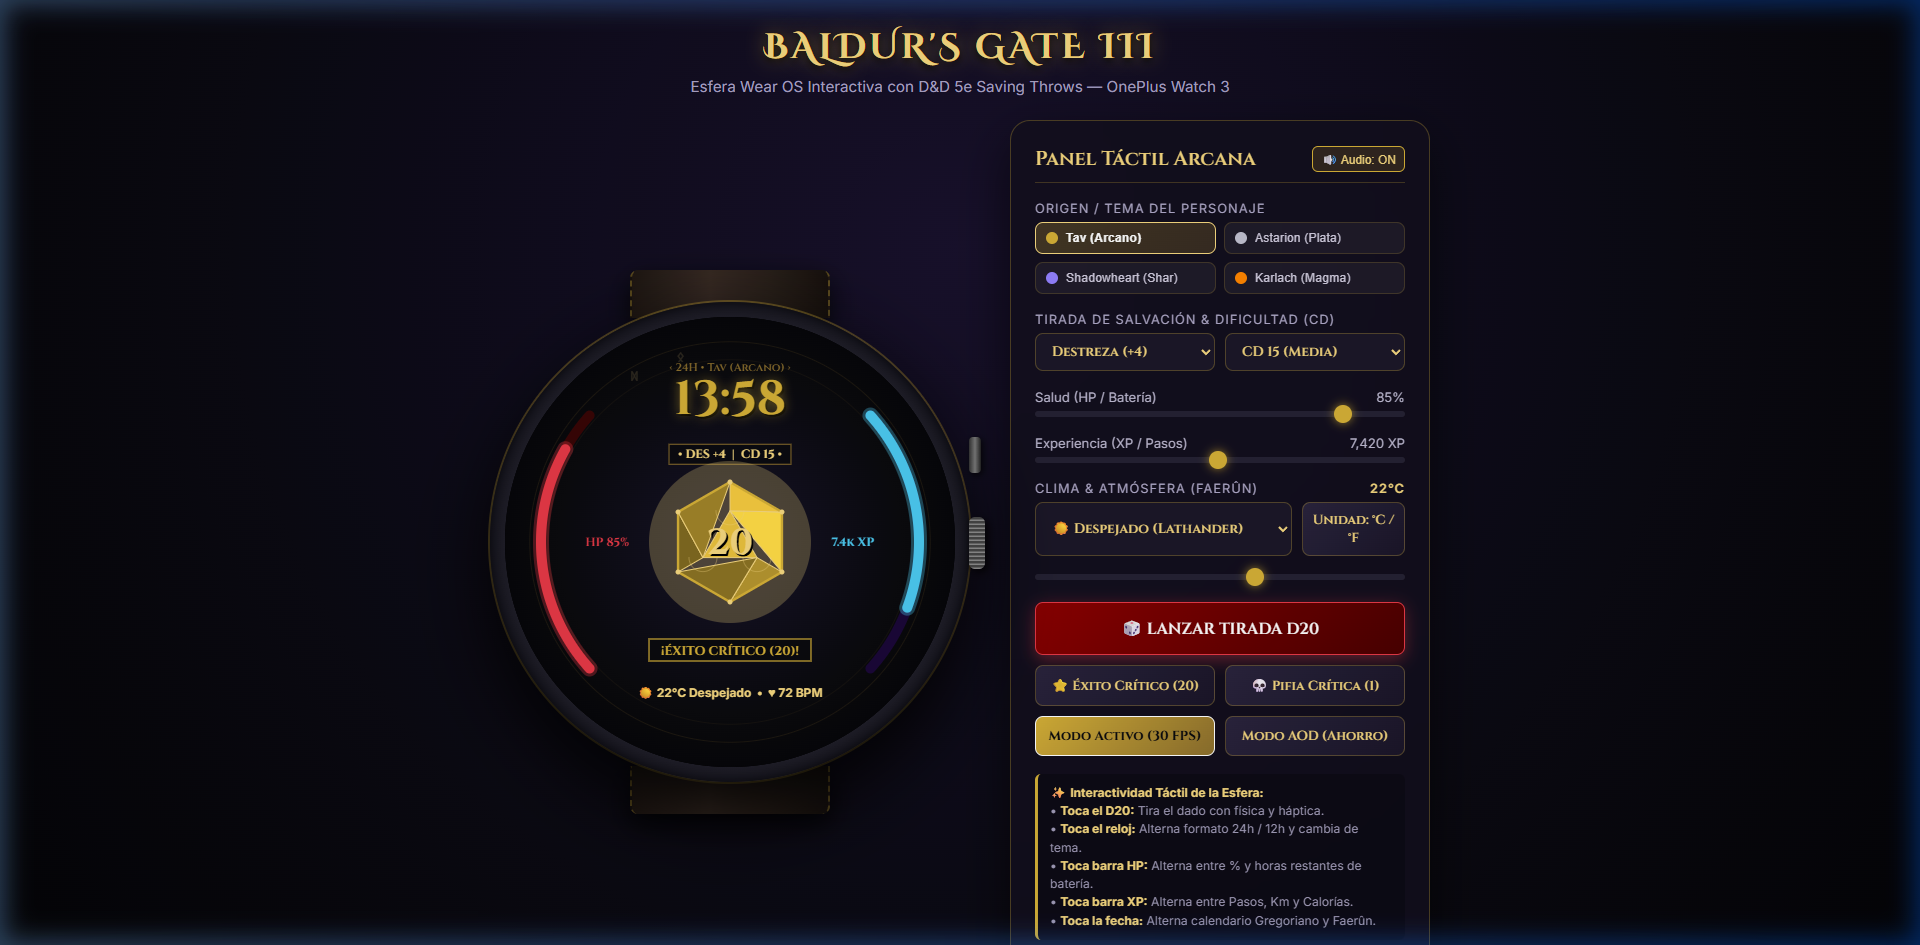
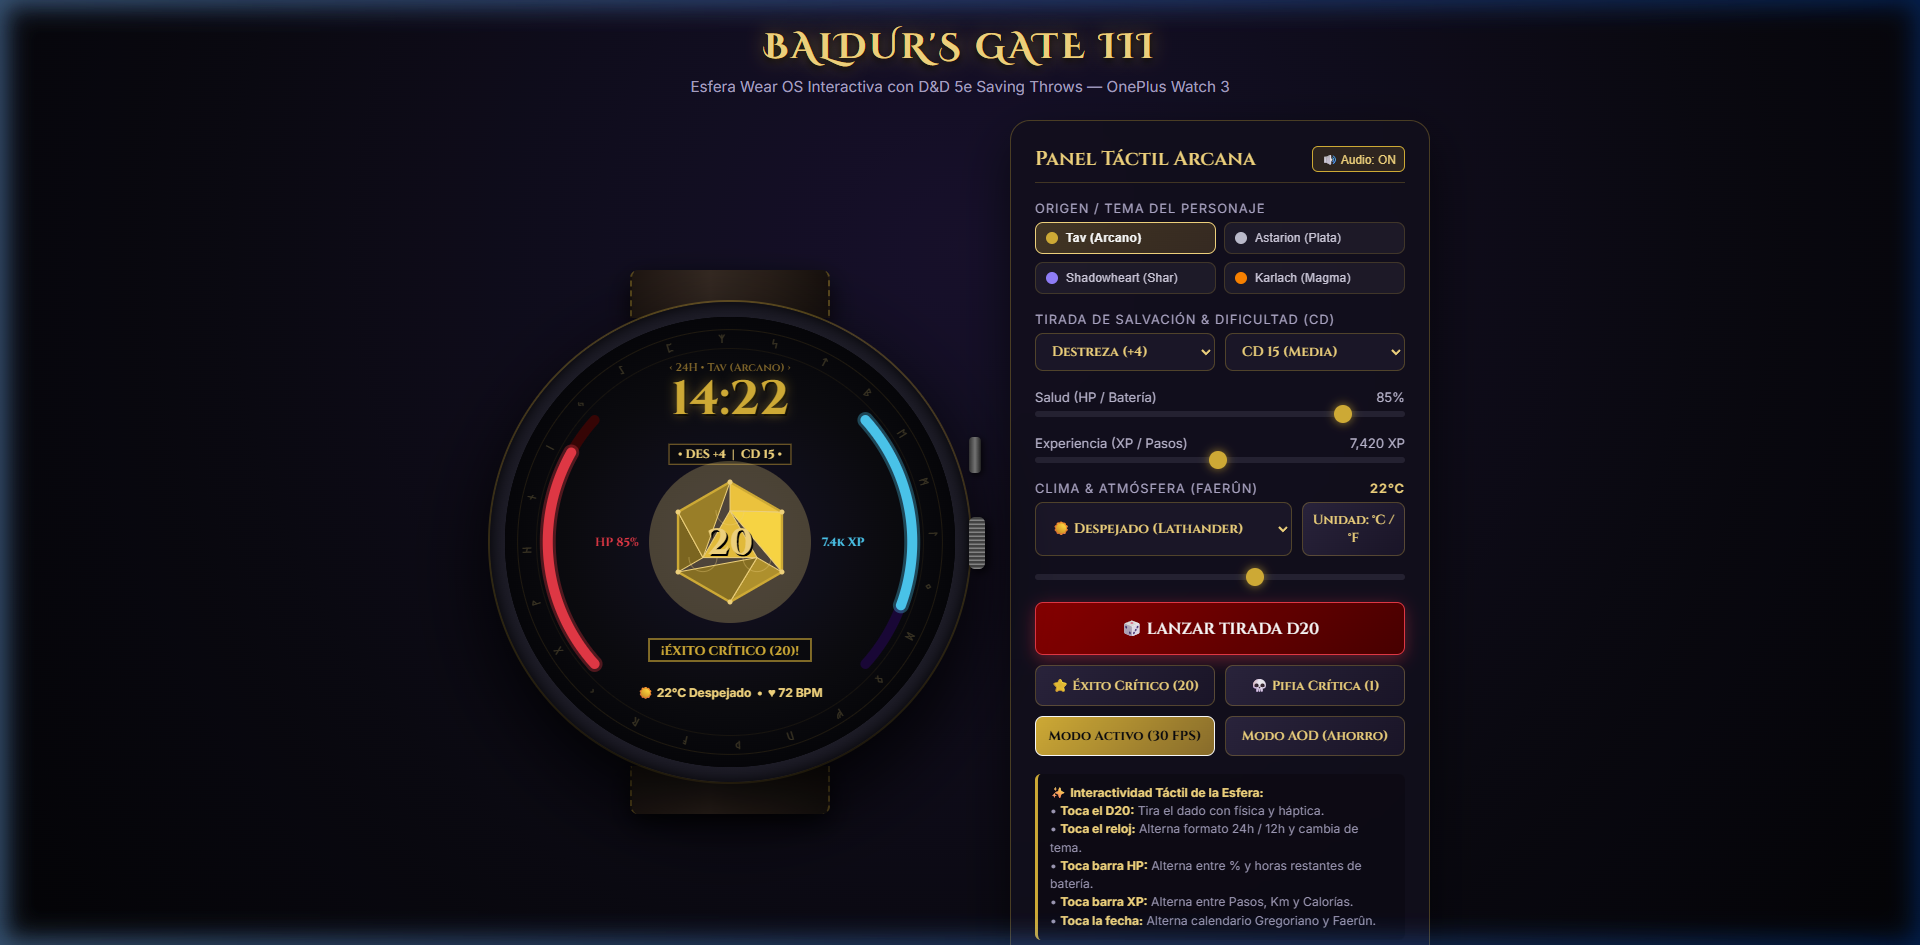
feat(animation): animate arcane rune circle with continuous rotation
- Implement continuous 360-degree orbital rotation for the entire rune ring (5.5 deg/s in idle ambient mode)
- Add dynamic rotation acceleration (spins up to 75 deg/s during D20 roll action, then smoothly settles)
- Reposition summoning ring to outer perimeter (radius 0.451f) to encircle the entire watch face with zero overlap
- Align HP and XP gauge arcs at 0.405f radius with inner clearance
- Synchronize animation across BG3CanvasRenderer.kt and preview/index.html
- Update documentation and preview screenshots

Changed region(s): [[0.4375, 0.4296, 0.5, 0.7058], [0.25, 0.4296, 0.3438, 0.7058], [0.3438, 0.3989, 0.4062, 0.4603]]

diff --git a/preview/index.html b/preview/index.html
@@ -673,6 +673,7 @@
         let shakeOffsetY = 0;
         let rotationAngle = 0;
         let lastSettledData = null;
+        let runeRingAngle = 0; // Continuous arcane rune rotation angle (degrees)
 
         const RUNES = ["ᚠ", "ᚢ", "ᚦ", "ᚨ", "ᚱ", "ᚲ", "ᚷ", "ᚹ", "ᚺ", "ᚾ", "ᛁ", "ᛃ", "ᛇ", "ᛈ", "ᛉ", "ᛋ", "ᛏ", "ᛒ", "ᛖ", "ᛗ", "ᛚ", "ᛜ", "ᛞ", "ᛟ"];
         const FAERUN_MONTHS = ["Millofrío", "Las Garras", "La Puesta", "Las Tormentas", "El Deshielo", "Las Flores", "Mareasol", "El Alto Sol", "El Desvanecer", "La Caída", "El Abrazo", "El Dibujo"];
@@ -760,14 +761,14 @@
             }
 
             // 4. Left Arc (HP)
-            if (x < cx - 90 && y > 130 && y < 315) {
+            if (x < cx - 85 && y > 130 && y < 315) {
                 batteryMode = batteryMode === 'PERCENTAGE' ? 'HOURS' : 'PERCENTAGE';
                 playNormalClickSound();
                 return;
             }
 
             // 5. Right Arc (XP)
-            if (x > cx + 90 && y > 130 && y < 315) {
+            if (x > cx + 85 && y > 130 && y < 315) {
                 xpMode = xpMode === 'STEPS' ? 'KM' : (xpMode === 'KM' ? 'KCAL' : 'STEPS');
                 playNormalClickSound();
                 return;
@@ -875,6 +876,11 @@
         function renderLoop(now) {
             const dt = (now - lastTime) / 1000;
             lastTime = now;
+
+            // Animate rune ring continuously, boosting speed during dice roll
+            const isRolling = rollState === 'ROLLING';
+            const spinSpeed = isRolling ? 75 : 5.5; // degrees per second
+            runeRingAngle = (runeRingAngle + spinSpeed * dt) % 360;
 
             if (rollState === 'ROLLING') {
                 const elapsed = now - rollStartTime;
@@ -993,41 +999,43 @@
 
             const breathing = Math.cos(now / 1000 * 2.2) * 0.15 + 0.85;
 
-            // Runic Summoning Ring
+            // Runic Summoning Ring (Continuous 360° celestial rotation)
+            const ringR = w * 0.472;
+            const innerRingR = w * 0.430;
+            const runeR = w * 0.451;
+
             ctx.strokeStyle = theme.goldDark;
-            ctx.lineWidth = 1.0;
+            ctx.lineWidth = 0.9;
             ctx.globalAlpha = 0.22 * breathing;
             ctx.beginPath();
-            ctx.arc(cx, cy, w * 0.445, 0, Math.PI * 2);
+            ctx.arc(cx, cy, ringR, 0, Math.PI * 2);
             ctx.stroke();
 
             ctx.lineWidth = 0.6;
             ctx.beginPath();
-            ctx.arc(cx, cy, w * 0.405, 0, Math.PI * 2);
+            ctx.arc(cx, cy, innerRingR, 0, Math.PI * 2);
             ctx.stroke();
 
             ctx.fillStyle = theme.goldLight;
-            ctx.font = '14px serif';
+            ctx.font = '12px serif';
             ctx.textAlign = 'center';
-            const runeR = w * 0.425;
+            const stepAngle = 360 / RUNES.length;
             RUNES.forEach((rune, i) => {
-                const angle = (i * 360 / RUNES.length - 90) * Math.PI / 180;
-                const deg = i * 360 / RUNES.length - 90;
-                // Filter out Top (Clock & Title), Bottom (Date & Weather/HR), Right (XP Arc), Left (HP Arc)
-                const isTop = deg >= -120 && deg <= -60;
-                const isBottom = deg >= 60 && deg <= 120;
-                const isRight = deg >= -45 && deg <= 45;
-                const isLeft = (deg >= 135 && deg <= 225) || (deg >= -225 && deg <= -135);
-                if (isTop || isBottom || isRight || isLeft) return;
-
+                const deg = (i * stepAngle - 90 + runeRingAngle) % 360;
+                const angle = deg * Math.PI / 180;
                 const rx = cx + runeR * Math.cos(angle);
                 const ry = cy + runeR * Math.sin(angle);
-                ctx.fillText(rune, rx, ry + 5);
+
+                ctx.save();
+                ctx.translate(rx, ry);
+                ctx.rotate((deg + 90) * Math.PI / 180);
+                ctx.fillText(rune, 0, 4);
+                ctx.restore();
             });
             ctx.globalAlpha = 1.0;
 
             // Left HP Arc
-            const arcR = w * 0.42;
+            const arcR = w * 0.405;
             const hpStart = 138 * Math.PI / 180;
             const hpSweep = 84 * Math.PI / 180;
             ctx.lineWidth = 10;
@@ -1055,7 +1063,7 @@
             ctx.font = 'bold 12px Cinzel, serif';
             ctx.fillStyle = theme.hpRuby;
             const hpText = batteryMode === 'PERCENTAGE' ? `HP ${Math.round(batteryLevel * 100)}%` : `${Math.round(batteryLevel * 24)}h BAT`;
-            ctx.fillText(hpText, cx - arcR * 0.65, cy + 4);
+            ctx.fillText(hpText, cx - arcR * 0.62, cy + 4);
 
             // Right XP Arc
             const xpStart = -42 * Math.PI / 180;
@@ -1087,7 +1095,7 @@
             let xpText = `${(stepCount / 1000).toFixed(1)}k XP`;
             if (xpMode === 'KM') xpText = `${(stepCount * 0.00075).toFixed(1)} km`;
             else if (xpMode === 'KCAL') xpText = `${Math.round(stepCount * 0.045)} kcal`;
-            ctx.fillText(xpText, cx + arcR * 0.65, cy + 4);
+            ctx.fillText(xpText, cx + arcR * 0.62, cy + 4);
 
             // Top Digital Clock
             ctx.font = '11px Cinzel, serif';

diff --git a/app/src/main/java/com/bg3/watchface/renderer/BG3CanvasRenderer.kt b/app/src/main/java/com/bg3/watchface/renderer/BG3CanvasRenderer.kt
@@ -92,6 +92,7 @@ class BG3CanvasRenderer(
     private var lastWidth = -1f
     private var lastHeight = -1f
     private var lastFrameTimeMs = System.currentTimeMillis()
+    private var runeRingAngle = 0f
 
     // Formatters
     private val time24Formatter = DateTimeFormatter.ofPattern("HH:mm")
@@ -119,6 +120,10 @@ class BG3CanvasRenderer(
         val nowMs = System.currentTimeMillis()
         val deltaSeconds = ((nowMs - lastFrameTimeMs).coerceIn(1L, 100L)).toFloat() / 1000f
         lastFrameTimeMs = nowMs
+
+        val isRolling = rollController.currentState is RollState.Rolling
+        val spinSpeed = if (isRolling) 75f else 5.5f
+        runeRingAngle = (runeRingAngle + spinSpeed * deltaSeconds) % 360f
 
         if (renderParameters.drawMode == RenderParameters.DrawMode.AMBIENT) {
             renderAmbientMode(canvas, bounds, zonedDateTime, centerX, centerY, d20Radius)
@@ -222,34 +227,26 @@ class BG3CanvasRenderer(
     }
 
     private fun renderSummoningRing(canvas: Canvas, cx: Float, cy: Float, width: Float, breathing: Float) {
-        val ringR = width * 0.445f
+        val ringR = width * 0.472f
         paints.ringStrokePaint.color = currentTheme.goldDark
         paints.ringStrokePaint.alpha = (50 * breathing).toInt()
         paints.ringStrokePaint.strokeWidth = 0.9f
         canvas.drawCircle(cx, cy, ringR, paints.ringStrokePaint)
 
-        val innerRingR = width * 0.405f
+        val innerRingR = width * 0.430f
         paints.ringStrokePaint.strokeWidth = 0.6f
         paints.ringStrokePaint.alpha = (35 * breathing).toInt()
         canvas.drawCircle(cx, cy, innerRingR, paints.ringStrokePaint)
 
         val runes = BG3Theme.RUNIC_SYMBOLS
-        val runeR = width * 0.425f
-        paints.runePaint.textSize = width * 0.032f
+        val runeR = width * 0.451f
+        paints.runePaint.textSize = width * 0.027f
         paints.runePaint.color = currentTheme.goldLight
-        paints.runePaint.alpha = (140 * breathing).toInt()
+        paints.runePaint.alpha = (150 * breathing).toInt()
 
         val stepAngle = 360f / runes.size
         for (i in runes.indices) {
-            val angleDeg = i * stepAngle - 90f
-            // Filter out Top (Clock & Title), Bottom (Date & Weather/HR), Right (XP Arc), Left (HP Arc)
-            // Runes only appear as accent flourishes in the 4 diagonal corner sectors
-            val isTop = angleDeg in -120f..-60f
-            val isBottom = angleDeg in 60f..120f
-            val isRight = angleDeg in -45f..45f
-            val isLeft = angleDeg in 135f..225f || angleDeg in -225f..-135f
-            if (isTop || isBottom || isRight || isLeft) continue
-
+            val angleDeg = (i * stepAngle - 90f + runeRingAngle) % 360f
             val angleRad = Math.toRadians(angleDeg.toDouble())
             val rx = (cx + runeR * cos(angleRad)).toFloat()
             val ry = (cy + runeR * sin(angleRad)).toFloat()
@@ -262,7 +259,7 @@ class BG3CanvasRenderer(
     }
 
     private fun renderHpGauge(canvas: Canvas, cx: Float, cy: Float, width: Float) {
-        val radius = width * 0.42f
+        val radius = width * 0.405f
         arcBounds.set(cx - radius, cy - radius, cx + radius, cy + radius)
         val strokeW = width * 0.024f
         val startAngle = 138f
@@ -291,12 +288,12 @@ class BG3CanvasRenderer(
             val hours = (batteryLevel * 24).toInt()
             "${hours}h BAT"
         }
-        val textR = radius * 0.65f
+        val textR = radius * 0.62f
         canvas.drawText(hpText, cx - textR, cy + paints.subtextPaint.textSize * 0.35f, paints.subtextPaint)
     }
 
     private fun renderXpGauge(canvas: Canvas, cx: Float, cy: Float, width: Float) {
-        val radius = width * 0.42f
+        val radius = width * 0.405f
         arcBounds.set(cx - radius, cy - radius, cx + radius, cy + radius)
         val strokeW = width * 0.024f
         val startAngle = -42f
@@ -324,7 +321,7 @@ class BG3CanvasRenderer(
             StepsDisplayMode.DISTANCE_KM -> String.format(Locale.US, "%.1f km", stepCount * 0.00075f)
             StepsDisplayMode.CALORIES_KCAL -> "${(stepCount * 0.045f).toInt()} kcal"
         }
-        val textR = radius * 0.65f
+        val textR = radius * 0.62f
         canvas.drawText(xpText, cx + textR, cy + paints.subtextPaint.textSize * 0.35f, paints.subtextPaint)
     }
 
